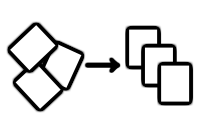
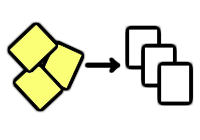
new section for discovery

Changed region(s): [[0.03, 0.1714, 0.42, 0.8]]

diff --git a/css/style.css b/css/style.css
@@ -61,8 +61,16 @@ body {
   color: rgb(85, 85, 85);
 }
 
+/** drs: FIXME/factor this out */
 .feature-collaborate {
   background: url('../img/collaborate.png') no-repeat scroll 0% 0% transparent;
+  height: 140px;
+  width: 200px;
+  margin: auto;
+}
+
+.feature-editors {
+  background: url('../img/editors.png') no-repeat scroll 0% 0% transparent;
   height: 140px;
   width: 200px;
   margin: auto;
